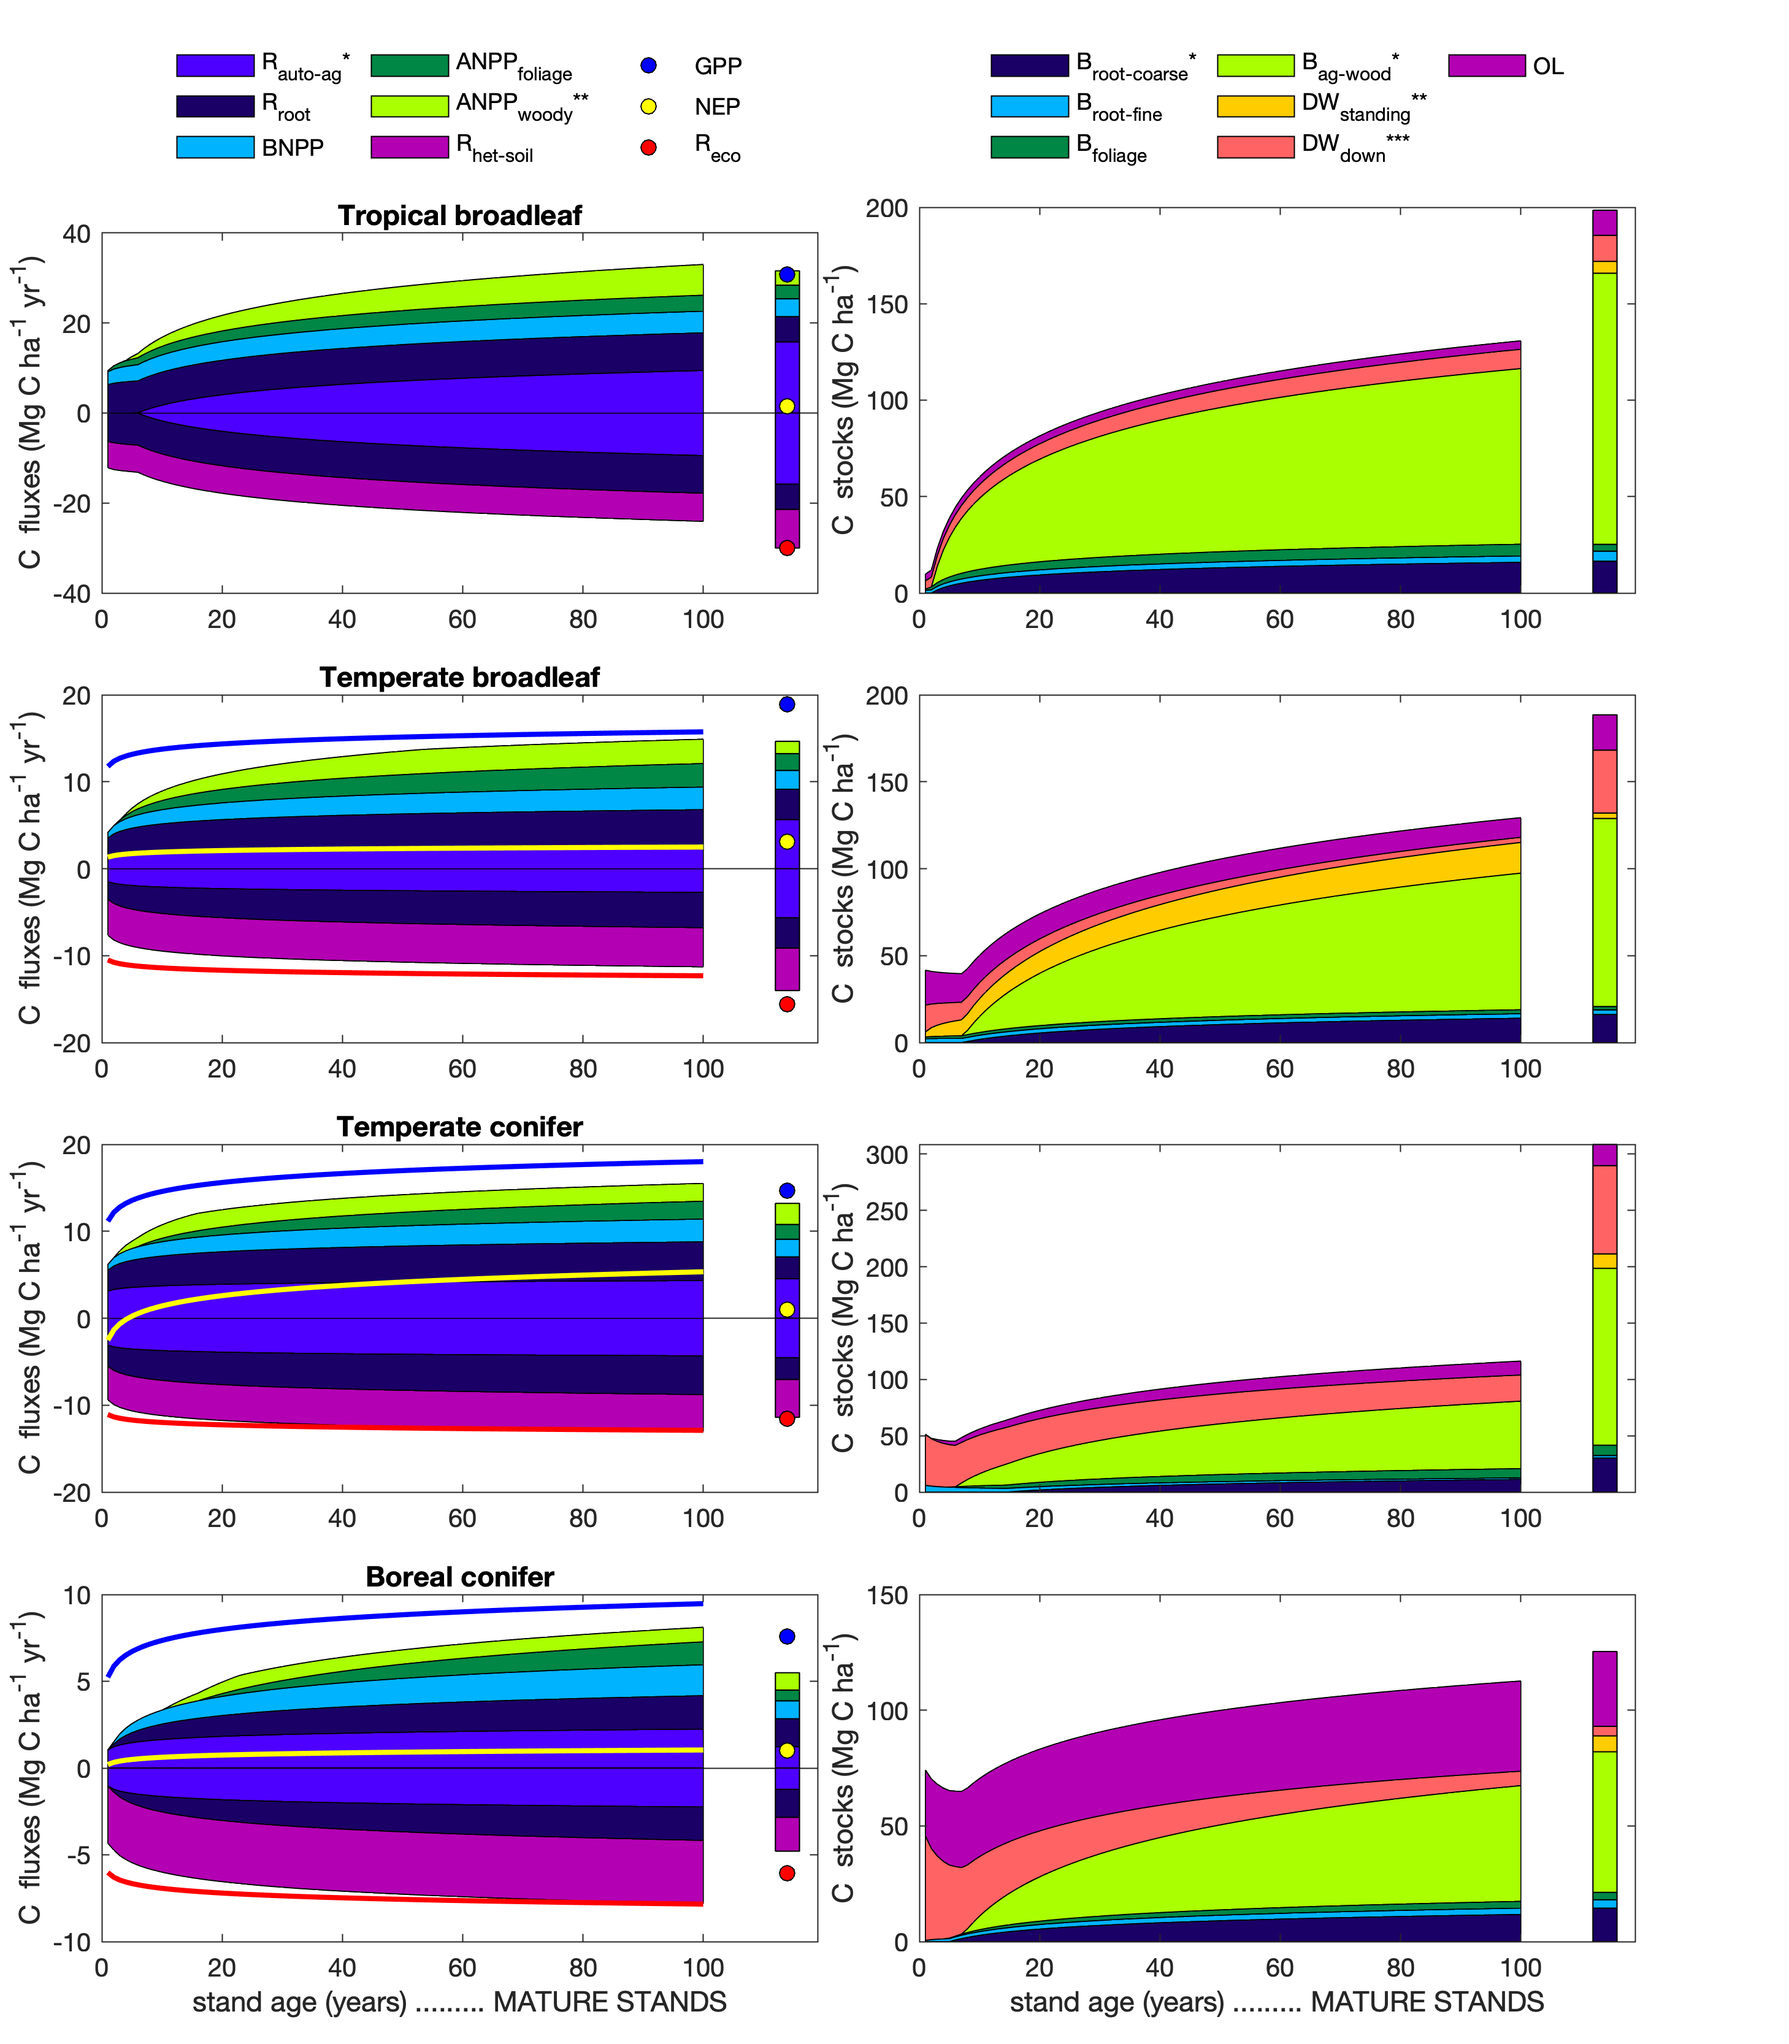
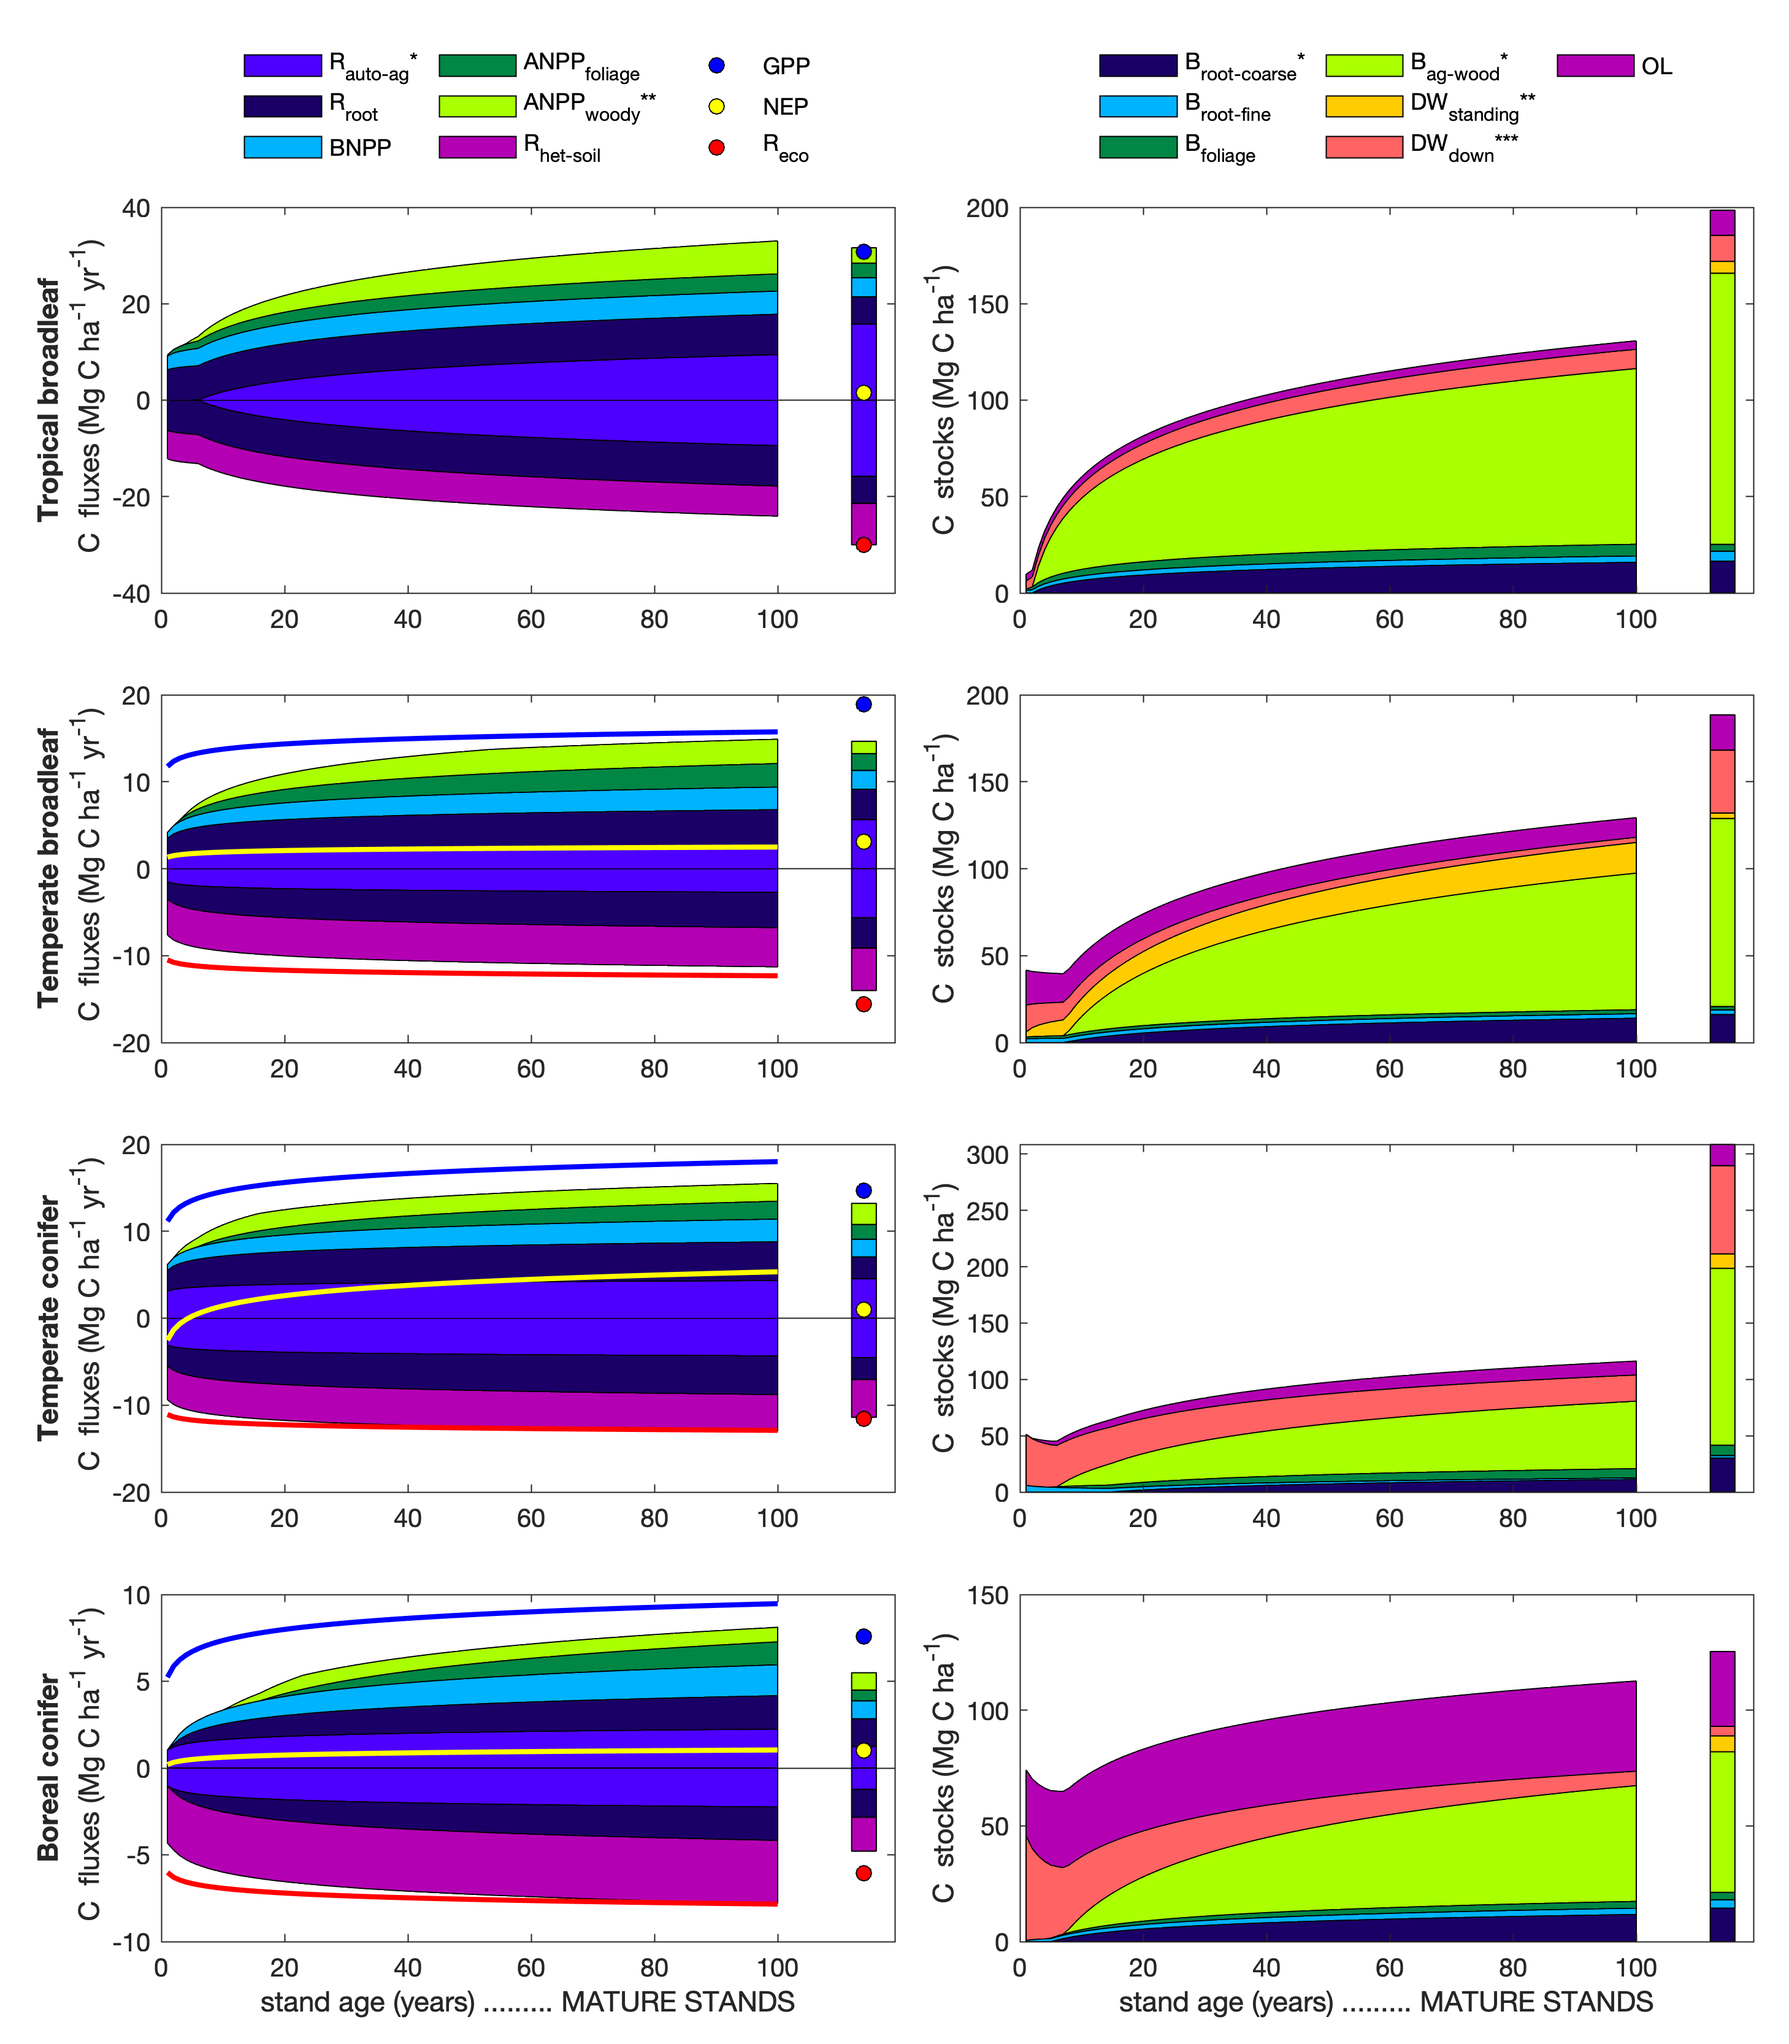
formatting
#64

diff --git a/manuscript/tables_figures/stacked_age_trends/stacked_area_results.m b/manuscript/tables_figures/stacked_age_trends/stacked_area_results.m
@@ -14,14 +14,13 @@ ForC_dir='/Users/kteixeira/Dropbox (Smithsonian)/GitHub/ForC-db/ForC';
     fig_dims=[20 20 700 800];
 
     %subplot positions
-    plot_width=0.4;  %plot_width+legend_width+left_marg=.5
-    legend_width=0.145;
+    plot_width=0.41;  
     plot_height=0.17;
-    legend_height=.1
-    left_marg=.057;
+    legend_height=.1;
+    left_marg=.09;
     lower_marg=.05;
     plot_space_vertical=.05;
-    plot_space_horizontal=left_marg;
+    plot_space_horizontal=.07;
     pos_TrB_f=[left_marg lower_marg+3*(plot_height+plot_space_vertical) plot_width plot_height+legend_height];
     pos_TeB_f=[left_marg lower_marg+2*(plot_height+plot_space_vertical) plot_width plot_height];
     pos_TeN_f=[left_marg lower_marg+1*(plot_height+plot_space_vertical) plot_width plot_height];
@@ -404,8 +403,7 @@ plot (114, -R_eco_mature, 'ok', 'MarkerFaceColor', 'r'); hold on;
     end
     h2bl.FaceColor= facecolor_out_fluxes(3,:);
 xlim([0 119])
-t = title(biomes(b));
-ylabel ('C  fluxes (Mg C ha^{-1} yr^{-1})')
+ylabel ({'\bf ',char(biomes(b)), '\rm C  fluxes (Mg C ha^{-1} yr^{-1})'})
 
 if b==4
 xlabel ('stand age (years) ......... MATURE STANDS');
@@ -440,7 +438,7 @@ h2=area(112:116, mature_stocks.*ones(5,size(mature_stocks,1))); hold on;
 %plot(age, B_tot, '-k', 'LineWidth', 3);
 %plot(age, B_tot_calc, '--k', 'LineWidth', 3);
 
-ylabel ('C  stocks (Mg C ha^{-1})')
+ylabel ({'C  stocks (Mg C ha^{-1})'})
 
 xlim([0 119])
 if b==4
